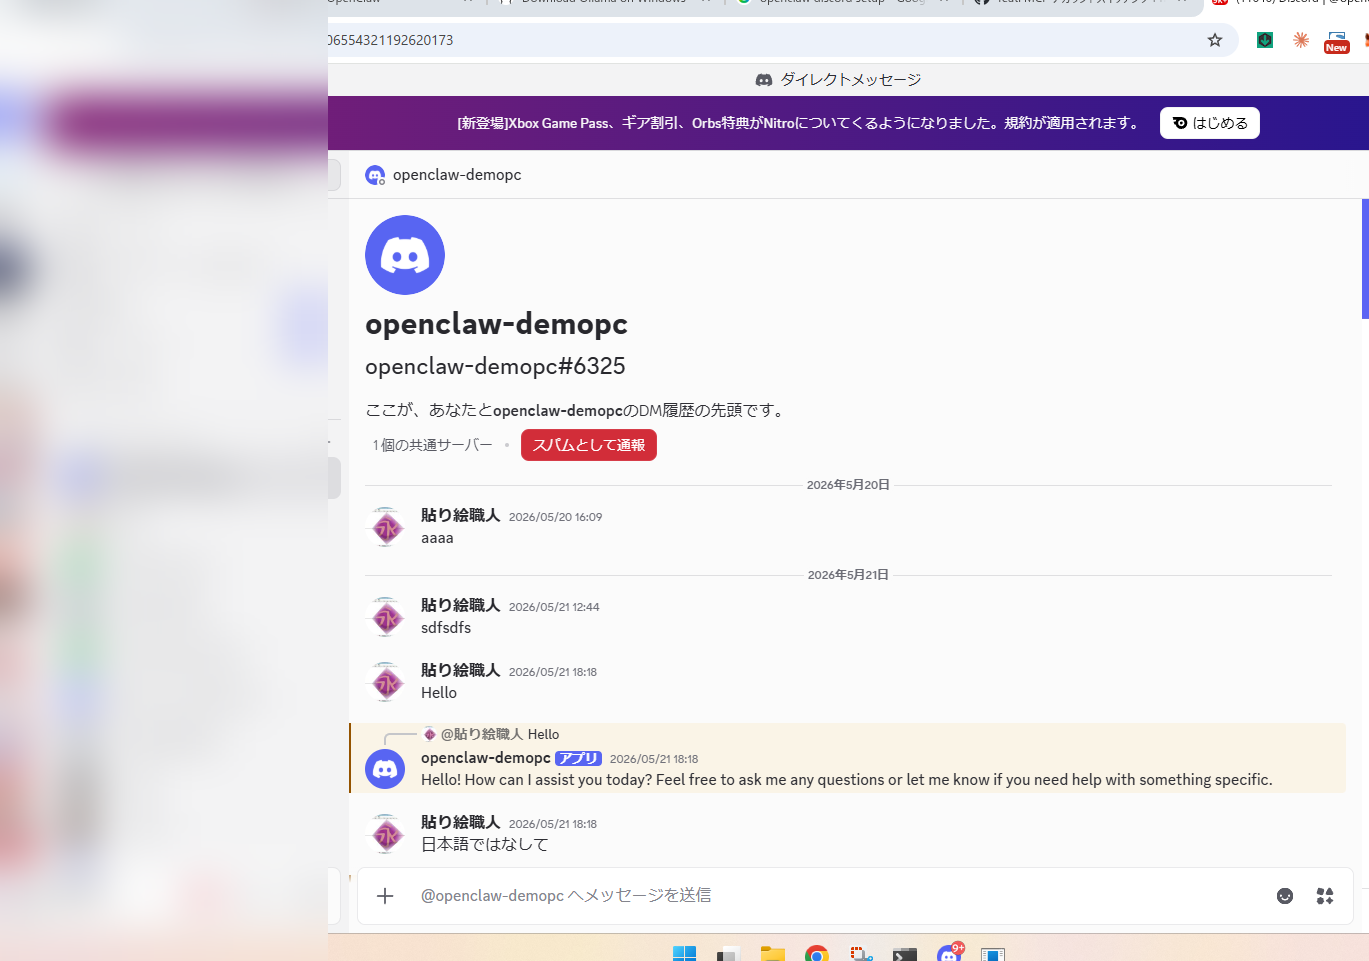
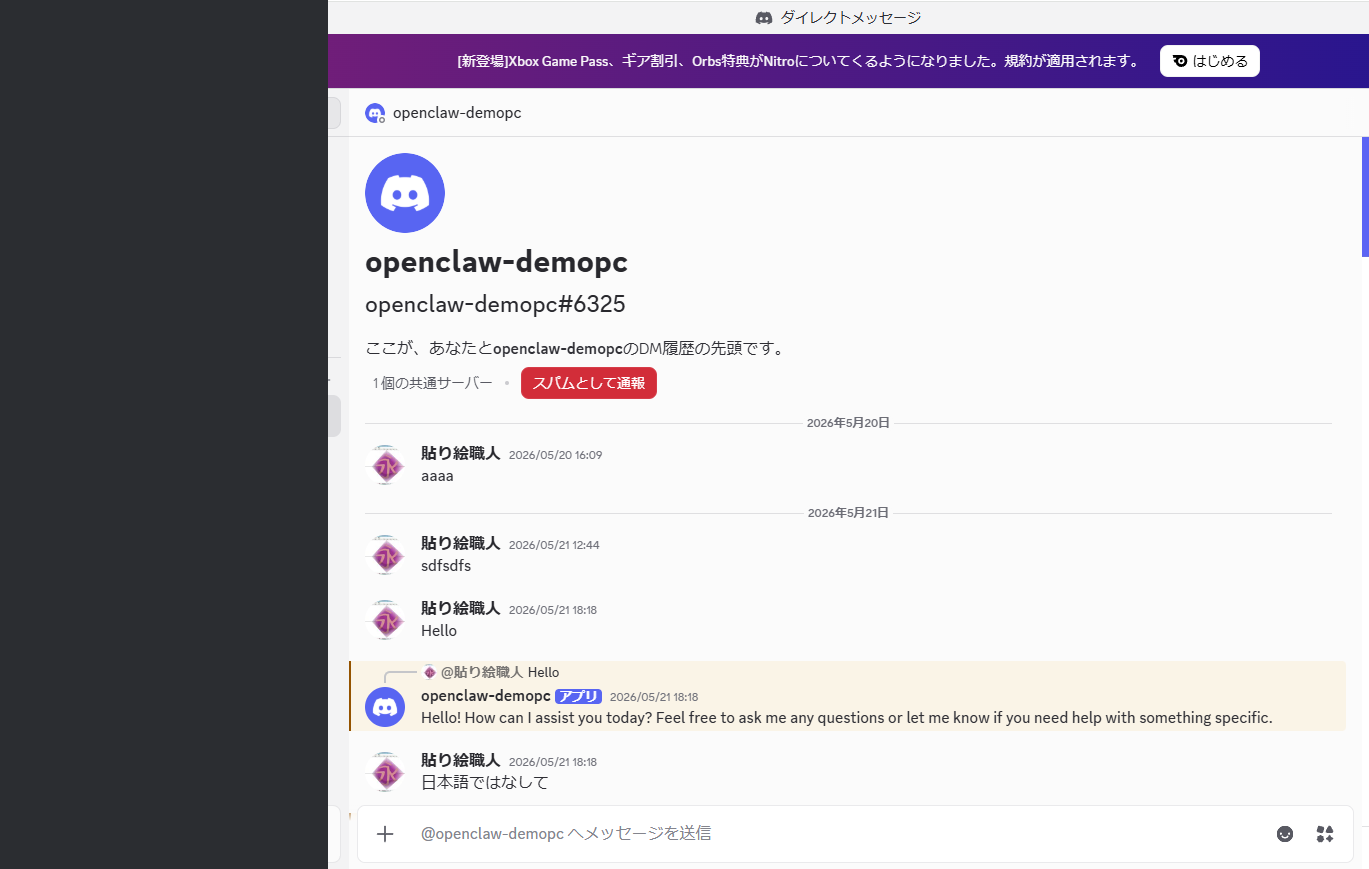
fix(article-07): Discord スクショの PII 露出を除去（URL バー/タブ列トリム + サイドバー単色塗り）
公開可否レビューで判明した露出を修正:
- ブラウザ URL バーに DM channel ID 末尾、上端にタブ列、dm-1 下端に taskbar が写り込んでいたため上下をトリム
- 左サイドバーの GaussianBlur は可逆リスクが残るため #2b2d31 の単色塗りに置換
- mask スクリプトを pathlib 化、--crop-top/--crop-bottom 追加、出力は常に -masked 付与で元画像を上書きしない

Generated with [Devin](https://devin.ai)

diff --git a/scripts/mask-discord-sidebar.py b/scripts/mask-discord-sidebar.py
@@ -1,29 +1,43 @@
 #!/usr/bin/env python3
-"""Discord DM スクショの左サイドバー (DM リスト・他ユーザー名) を blur マスクする。
+"""Discord DM スクショの左サイドバー (DM リスト・他ユーザー名) を塗りつぶしマスクする。
 
 PUBLIC repo に貼るため、サイドバーに映り込む他ユーザー名・DM リストを隠す。
 会話本文 (中央〜右) は記事素材として残す。OCR 不要、座標ベースの汎用マスク。
+blur は可逆リスクがあるため Discord ダークサイドバー色の単色矩形で不可逆に覆う。
 """
-import sys
-from PIL import Image, ImageFilter
+import argparse
+from pathlib import Path
 
-# 左サイドバー比率 (サーバーアイコン列 + DM/チャンネルリスト)。Discord 標準レイアウト基準。
-SIDEBAR_RATIO = 0.24
-BLUR_RADIUS = 20
+from PIL import Image
 
-files = sys.argv[1:] if len(sys.argv) > 1 else [
-    "docs/screenshots/discord-dm-1.png",
-    "docs/screenshots/discord-dm-2.png",
-    "docs/screenshots/discord-dm-3.png",
+SIDEBAR_RATIO = 0.24  # サーバーアイコン列 + DM/チャンネルリスト。Discord 標準レイアウト基準。
+SIDEBAR_COLOR = "#2b2d31"  # Discord dark theme のサイドバー背景色
+
+DEFAULT_IMAGES = [
+    "articles/openclaw-07-local-llm-self-defense/images/discord-dm-1.png",
+    "articles/openclaw-07-local-llm-self-defense/images/discord-dm-2.png",
+    "articles/openclaw-07-local-llm-self-defense/images/discord-dm-3.png",
 ]
 
-for f in files:
-    img = Image.open(f).convert("RGB")
+parser = argparse.ArgumentParser(description=__doc__)
+parser.add_argument("images", nargs="*", default=DEFAULT_IMAGES)
+parser.add_argument("--crop-top", type=int, default=0, help="上端から crop する px 数")
+parser.add_argument("--crop-bottom", type=int, default=0, help="下端から crop する px 数")
+args = parser.parse_args()
+
+for name in args.images:
+    src = Path(name)
+    if not src.is_file():
+        parser.exit(1, f"error: input file not found: {src}\n")
+    img = Image.open(src).convert("RGB")
+    w, h = img.size
+    bottom = h - args.crop_bottom
+    if args.crop_top >= bottom:
+        parser.exit(1, f"error: crops exceed image height for {src}\n")
+    img = img.crop((0, args.crop_top, w, bottom))
     w, h = img.size
     sidebar_w = int(w * SIDEBAR_RATIO)
-    region = img.crop((0, 0, sidebar_w, h))
-    region = region.filter(ImageFilter.GaussianBlur(radius=BLUR_RADIUS))
-    img.paste(region, (0, 0))
-    out = f.replace(".png", "-masked.png")
+    img.paste(Image.new("RGB", (sidebar_w, h), SIDEBAR_COLOR), (0, 0))
+    out = src.with_name(f"{src.stem}-masked{src.suffix}")
     img.save(out)
     print(f"{out} size={img.size} sidebar_w={sidebar_w}")
